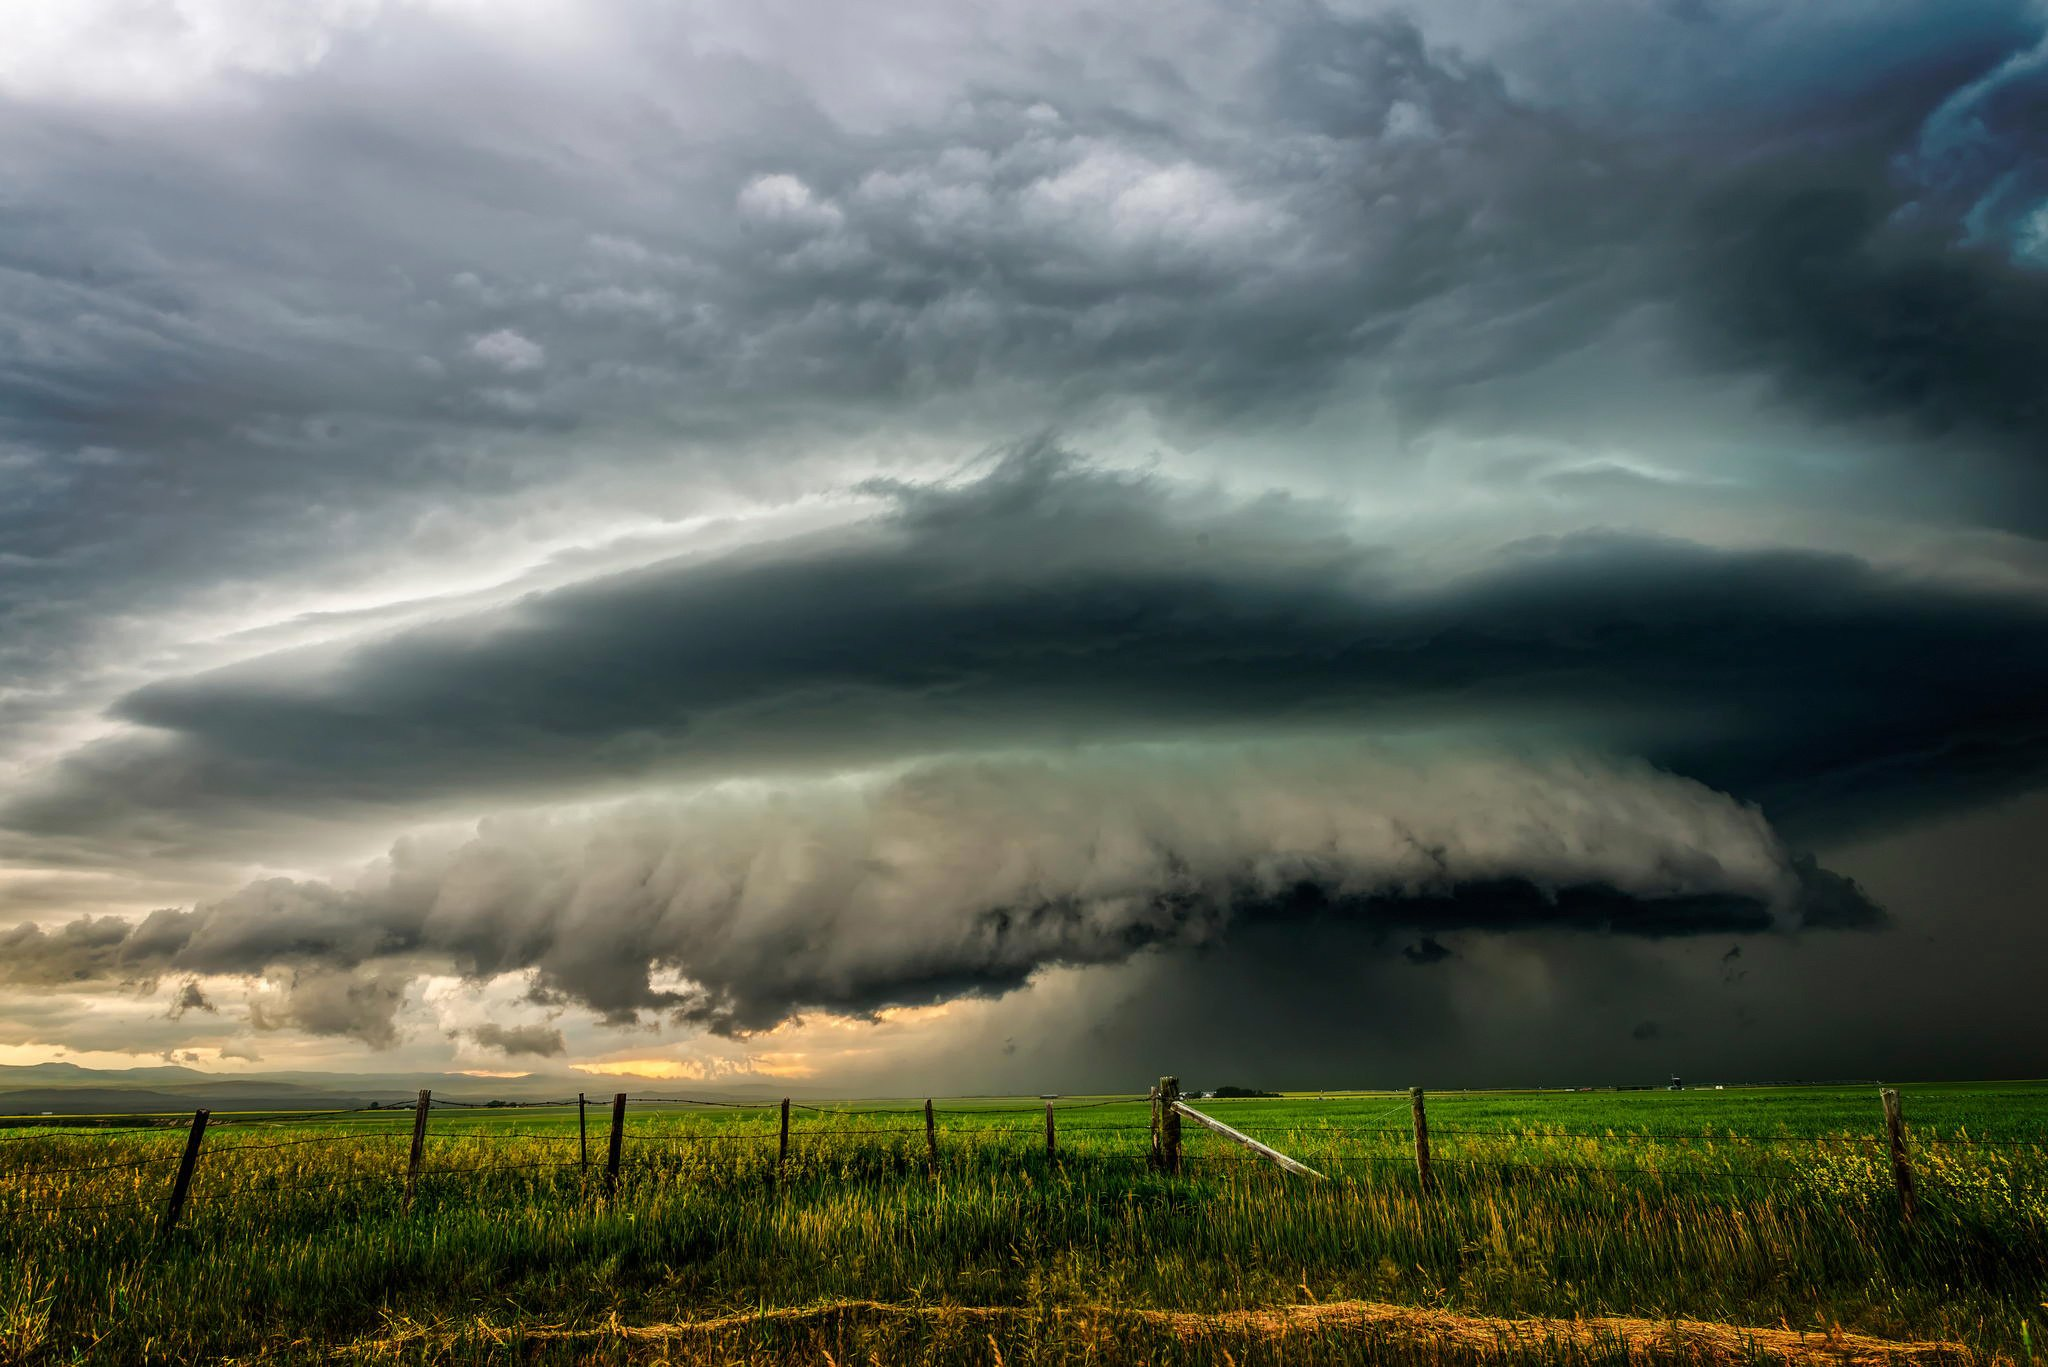
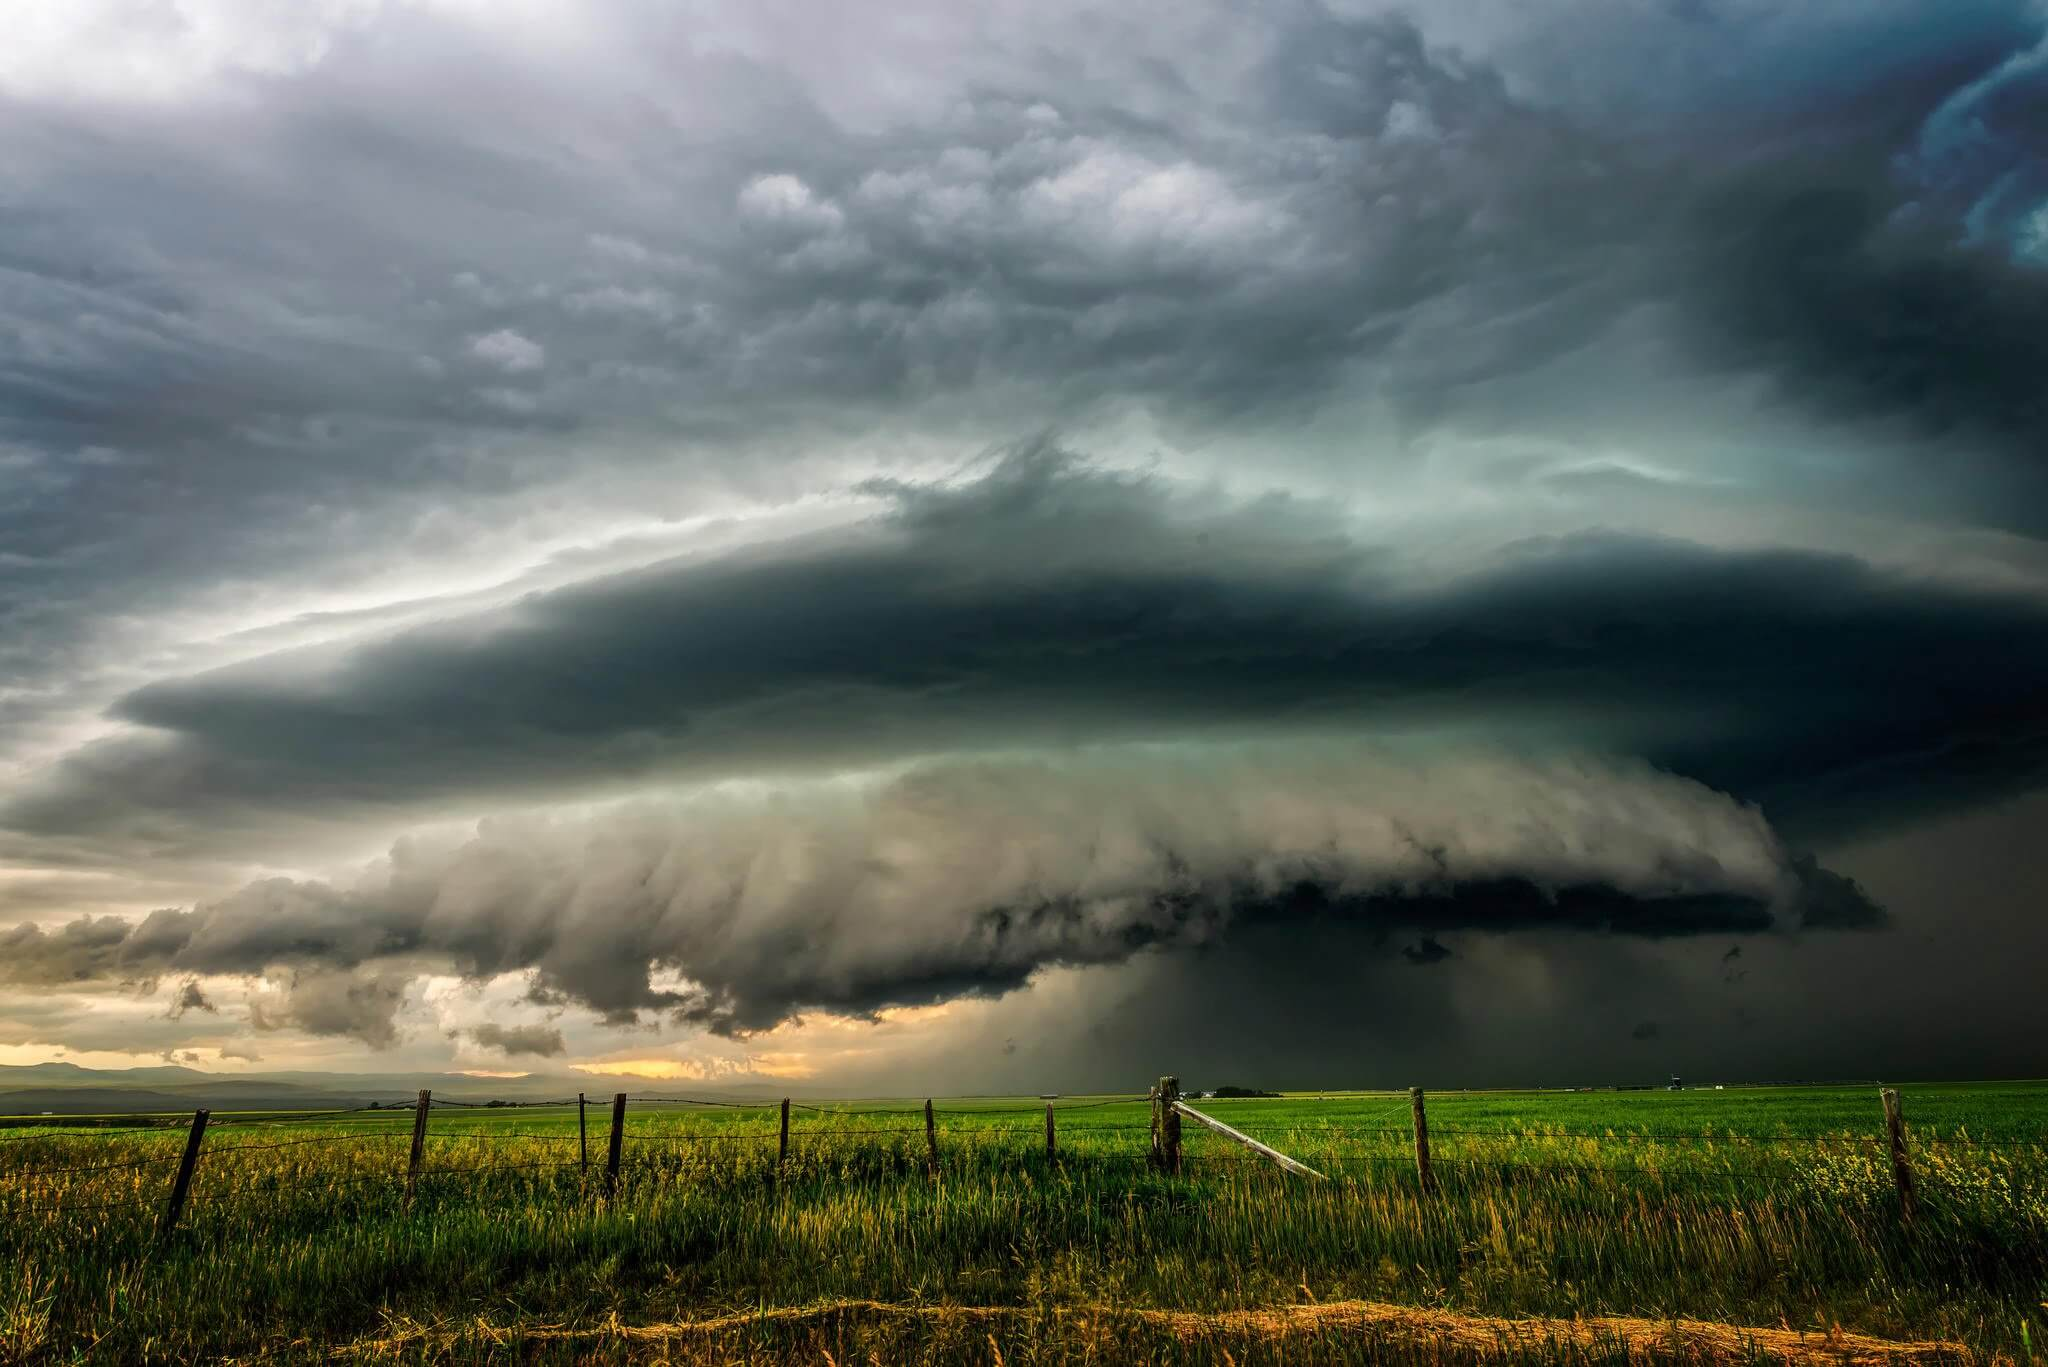
Add weather data from rest api

diff --git a/src/components/main-page/main-page-container/mainContainerFooter.vue b/src/components/main-page/main-page-container/mainContainerFooter.vue
@@ -4,22 +4,28 @@
       <div class="main-footer__item">
         <div class="main-footer__item-icon main-footer__item-icon-drops"></div>
         <div class="main-footer__item-parameter">Влажность</div>
-        <div class="main-footer__item-parameter-value">88 %</div>
+        <div class="main-footer__item-parameter-value">
+          {{ WEATHER_DATA.humidity }} %
+        </div>
       </div>
 
       <div class="main-footer__item">
         <div
           class="main-footer__item-icon main-footer__item-icon-umbrella"
         ></div>
-        <div class="main-footer__item-parameter">Осадки</div>
-        <div class="main-footer__item-parameter-value">86 мм</div>
+        <div class="main-footer__item-parameter">Облачность</div>
+        <div class="main-footer__item-parameter-value">
+          {{ WEATHER_DATA.cloudy }} %
+        </div>
       </div>
 
       <div class="main-footer__wind-wrapper">
         <div class="main-footer__wind-title">Ветер</div>
         <div class="main-footer__wind">
           <div class="main-footer__wind-container">
-            <div class="main-footer__wind-speed">69</div>
+            <div class="main-footer__wind-speed">
+              {{ WEATHER_DATA.windSpeed }}
+            </div>
             <div class="main-footer__wind-speed-text">км/ч</div>
             <div class="main-footer__wind-north">N</div>
             <div class="main-footer__wind-east">E</div>
@@ -33,21 +39,31 @@
       <div class="main-footer__item">
         <div class="main-footer__item-icon"></div>
         <div class="main-footer__item-parameter">Давление</div>
-        <div class="main-footer__item-parameter-value">869 мм</div>
+        <div class="main-footer__item-parameter-value">
+          {{ WEATHER_DATA.pressure }} мм
+        </div>
       </div>
 
       <div class="main-footer__item">
         <div class="main-footer__item-icon main-footer__item-icon-eye"></div>
         <div class="main-footer__item-parameter">Видимость</div>
-        <div class="main-footer__item-parameter-value">968 км</div>
+        <div class="main-footer__item-parameter-value">
+          {{ WEATHER_DATA.visibility }} км
+        </div>
       </div>
     </div>
   </div>
 </template>
 
 <script>
+import { mapGetters } from 'vuex';
+
 export default {
   name: 'MainPageContainerFooter',
+
+  computed: {
+    ...mapGetters(['WEATHER_DATA']),
+  },
 };
 </script>
 

diff --git a/src/vuex/store.js b/src/vuex/store.js
@@ -1,0 +1,69 @@
+import Vue from 'vue';
+import Vuex from 'vuex';
+
+Vue.use(Vuex);
+
+const store = new Vuex.Store({
+  state: {
+    city: 'Москва',
+    temperature: 0,
+    weatherDescription: 'Пасмурно',
+    temperatureFeelsLike: 0,
+    temperatureMin: 0,
+    temperatureMax: 0,
+    humidity: 0,
+    cloudy: 0,
+    windDirection: 0,
+    windSpeed: 0,
+    pressure: 0,
+    visibility: 0,
+  },
+
+  getters: {
+    WEATHER_DATA(state) {
+      return {
+        sity: state.city,
+        temperature: state.temperature,
+        weatherDescription: state.weatherDescription,
+        temperatureFeelsLike: state.temperatureFeelsLike,
+        temperatureMin: state.temperatureMin,
+        temperatureMax: state.temperatureMax,
+        humidity: state.humidity,
+        cloudy: state.cloudy,
+        windDirection: state.windDirection,
+        windSpeed: state.windSpeed,
+        pressure: state.pressure,
+        visibility: state.visibility,
+      };
+    },
+  },
+
+  mutations: {
+    SET_WEATHER(state, data) {
+      state.city = data.name;
+      state.temperature = Math.floor(data.main.temp);
+      state.weatherDescription = data.weather[0].description;
+      state.temperatureFeelsLike = Math.floor(data.main.feels_like);
+      state.temperatureMin = Math.floor(data.main.temp_min);
+      state.temperatureMax = Math.floor(data.main.temp_max);
+      state.humidity = Math.floor(data.main.humidity);
+      state.cloudy = data.clouds.all;
+      state.windDirection = Math.floor(data.wind.deg);
+      state.windSpeed = Math.floor(data.wind.speed);
+      state.pressure = Math.floor(data.main.pressure * 0.736);
+      state.visibility = Math.floor(data.visibility / 1000);
+    },
+  },
+
+  actions: {
+    GET_WEATHER(context, city) {
+      fetch(
+        `https://api.openweathermap.org/data/2.5/weather?q=${city}&appid=5c680e5d8c8f29befb9f1c239dfae90b&lang=ru&units=metric`
+      )
+        .then((response) => response.json())
+        .then((weatherData) => context.commit('SET_WEATHER', weatherData));
+    },
+  },
+});
+
+export default store;

diff --git a/src/components/main-page/main-page-container/mainContainerContent.vue b/src/components/main-page/main-page-container/mainContainerContent.vue
@@ -4,17 +4,23 @@
       <div class="main-content__headline-temperature">
         По ощущениям
 
-        <span class="headline__temperature-value">897 &deg;</span>
+        <span class="headline__temperature-value"
+          >{{ WEATHER_DATA.temperatureFeelsLike }} &deg;</span
+        >
       </div>
 
       <div class="main-content__headline-min-max">
         <div class="main-content__headline-min">
           Мин.
-          <span class="main-content__headline-min-value">-89.9 &deg;</span>
+          <span class="main-content__headline-min-value"
+            >{{ WEATHER_DATA.temperatureMin }} &deg;</span
+          >
         </div>
         <div class="main-content__headline-max">
           Макс.
-          <span class="main-content__headline-max-value">+98.6 &deg;</span>
+          <span class="main-content__headline-max-value"
+            >{{ WEATHER_DATA.temperatureMax }} &deg;</span
+          >
         </div>
       </div>
     </div>
@@ -22,7 +28,10 @@
     <div class="main-content__time">
       <span class="main-content__time-hour">69</span>
       <span
-        class="main-content__time-separator main-content__time-separator-active"
+        class="main-content__time-separator"
+        :class="{
+          'main-content__time-separator-active': isTimerSeparatorVisible,
+        }"
         >:</span
       >
       <span class="main-content__time-minutes">96</span>
@@ -38,8 +47,38 @@
 </template>
 
 <script>
+import { mapGetters } from 'vuex';
+
 export default {
   name: 'MainPageContainerContent',
+
+  data() {
+    return {
+      timerInterval: '',
+      isTimerSeparatorVisible: false,
+    };
+  },
+
+  methods: {
+    switchTimerSeparator() {
+      this.timerInterval = setInterval(
+        () => (this.isTimerSeparatorVisible = !this.isTimerSeparatorVisible),
+        1000
+      );
+    },
+  },
+
+  computed: {
+    ...mapGetters(['WEATHER_DATA']),
+  },
+
+  mounted() {
+    this.switchTimerSeparator();
+  },
+
+  unmounted() {
+    clearInterval(this.timerInterval);
+  },
 };
 </script>
 

diff --git a/src/components/main-page/main-page-container/mainContainerHeader.vue b/src/components/main-page/main-page-container/mainContainerHeader.vue
@@ -1,20 +1,30 @@
 <template>
   <div class="main-header">
     <div class="main-header__temperature">
-      <div class="main-header__temperature-value">186</div>
+      <div class="main-header__temperature-value">
+        {{ WEATHER_DATA.temperature }}
+      </div>
       <div class="main-header__degrees-icon"></div>
       <div class="main-header__temperature-celsius">C</div>
     </div>
 
-    <div class="main-header__weather-value">Переменная облачность</div>
+    <div class="main-header__weather-value">
+      {{ WEATHER_DATA.weatherDescription }}
+    </div>
 
     <div class="main-header__weather-icon-container"></div>
   </div>
 </template>
 
 <script>
+import { mapGetters } from 'vuex';
+
 export default {
   name: 'MainPageContainerHeader',
+
+  computed: {
+    ...mapGetters(['WEATHER_DATA']),
+  },
 };
 </script>
 

diff --git a/src/App.vue b/src/App.vue
@@ -8,11 +8,26 @@
 
 <script>
 import MainPage from './components/main-page/mainPage.vue';
+import { mapActions, mapGetters } from 'vuex';
 
 export default {
   name: 'App',
+
   components: {
     MainPage,
+  },
+
+  methods: {
+    ...mapActions(['GET_WEATHER']),
+  },
+
+  computed: {
+    ...mapGetters(['WEATHER_DATA']),
+  },
+
+  mounted() {
+    this.GET_WEATHER('чернушка');
+    setTimeout(() => console.log(this.WEATHER_DATA), 2000);
   },
 };
 </script>
@@ -39,7 +54,7 @@ export default {
 }
 
 #app {
-  background: url('./assets/images/cloudy.jpg') center / cover no-repeat;
+  background: url('./assets/images/rain.jpg') center / cover no-repeat;
   min-height: 100vh;
 }
 </style>

diff --git a/src/components/main-page/mainPageHedline.vue b/src/components/main-page/mainPageHedline.vue
@@ -2,7 +2,7 @@
   <div class="headline">
     <div class="headline__city-container">
       <div class="headline__text">Погода в городе</div>
-      <h2 class="headline__sity-title">Астрахань</h2>
+      <h2 class="headline__sity-title">{{ WEATHER_DATA.sity }}</h2>
     </div>
 
     <div class="headline__search-block">
@@ -29,8 +29,14 @@
 </template>
 
 <script>
+import { mapGetters } from 'vuex';
+
 export default {
   name: 'MainPageHedline',
+
+  computed: {
+    ...mapGetters(['WEATHER_DATA']),
+  },
 };
 </script>
 

diff --git a/src/main.js b/src/main.js
@@ -1,8 +1,10 @@
-import Vue from 'vue'
-import App from './App.vue'
+import Vue from 'vue';
+import App from './App.vue';
+import store from './vuex/store';
 
-Vue.config.productionTip = false
+Vue.config.productionTip = false;
 
 new Vue({
-  render: h => h(App),
-}).$mount('#app')
+  render: (h) => h(App),
+  store,
+}).$mount('#app');
